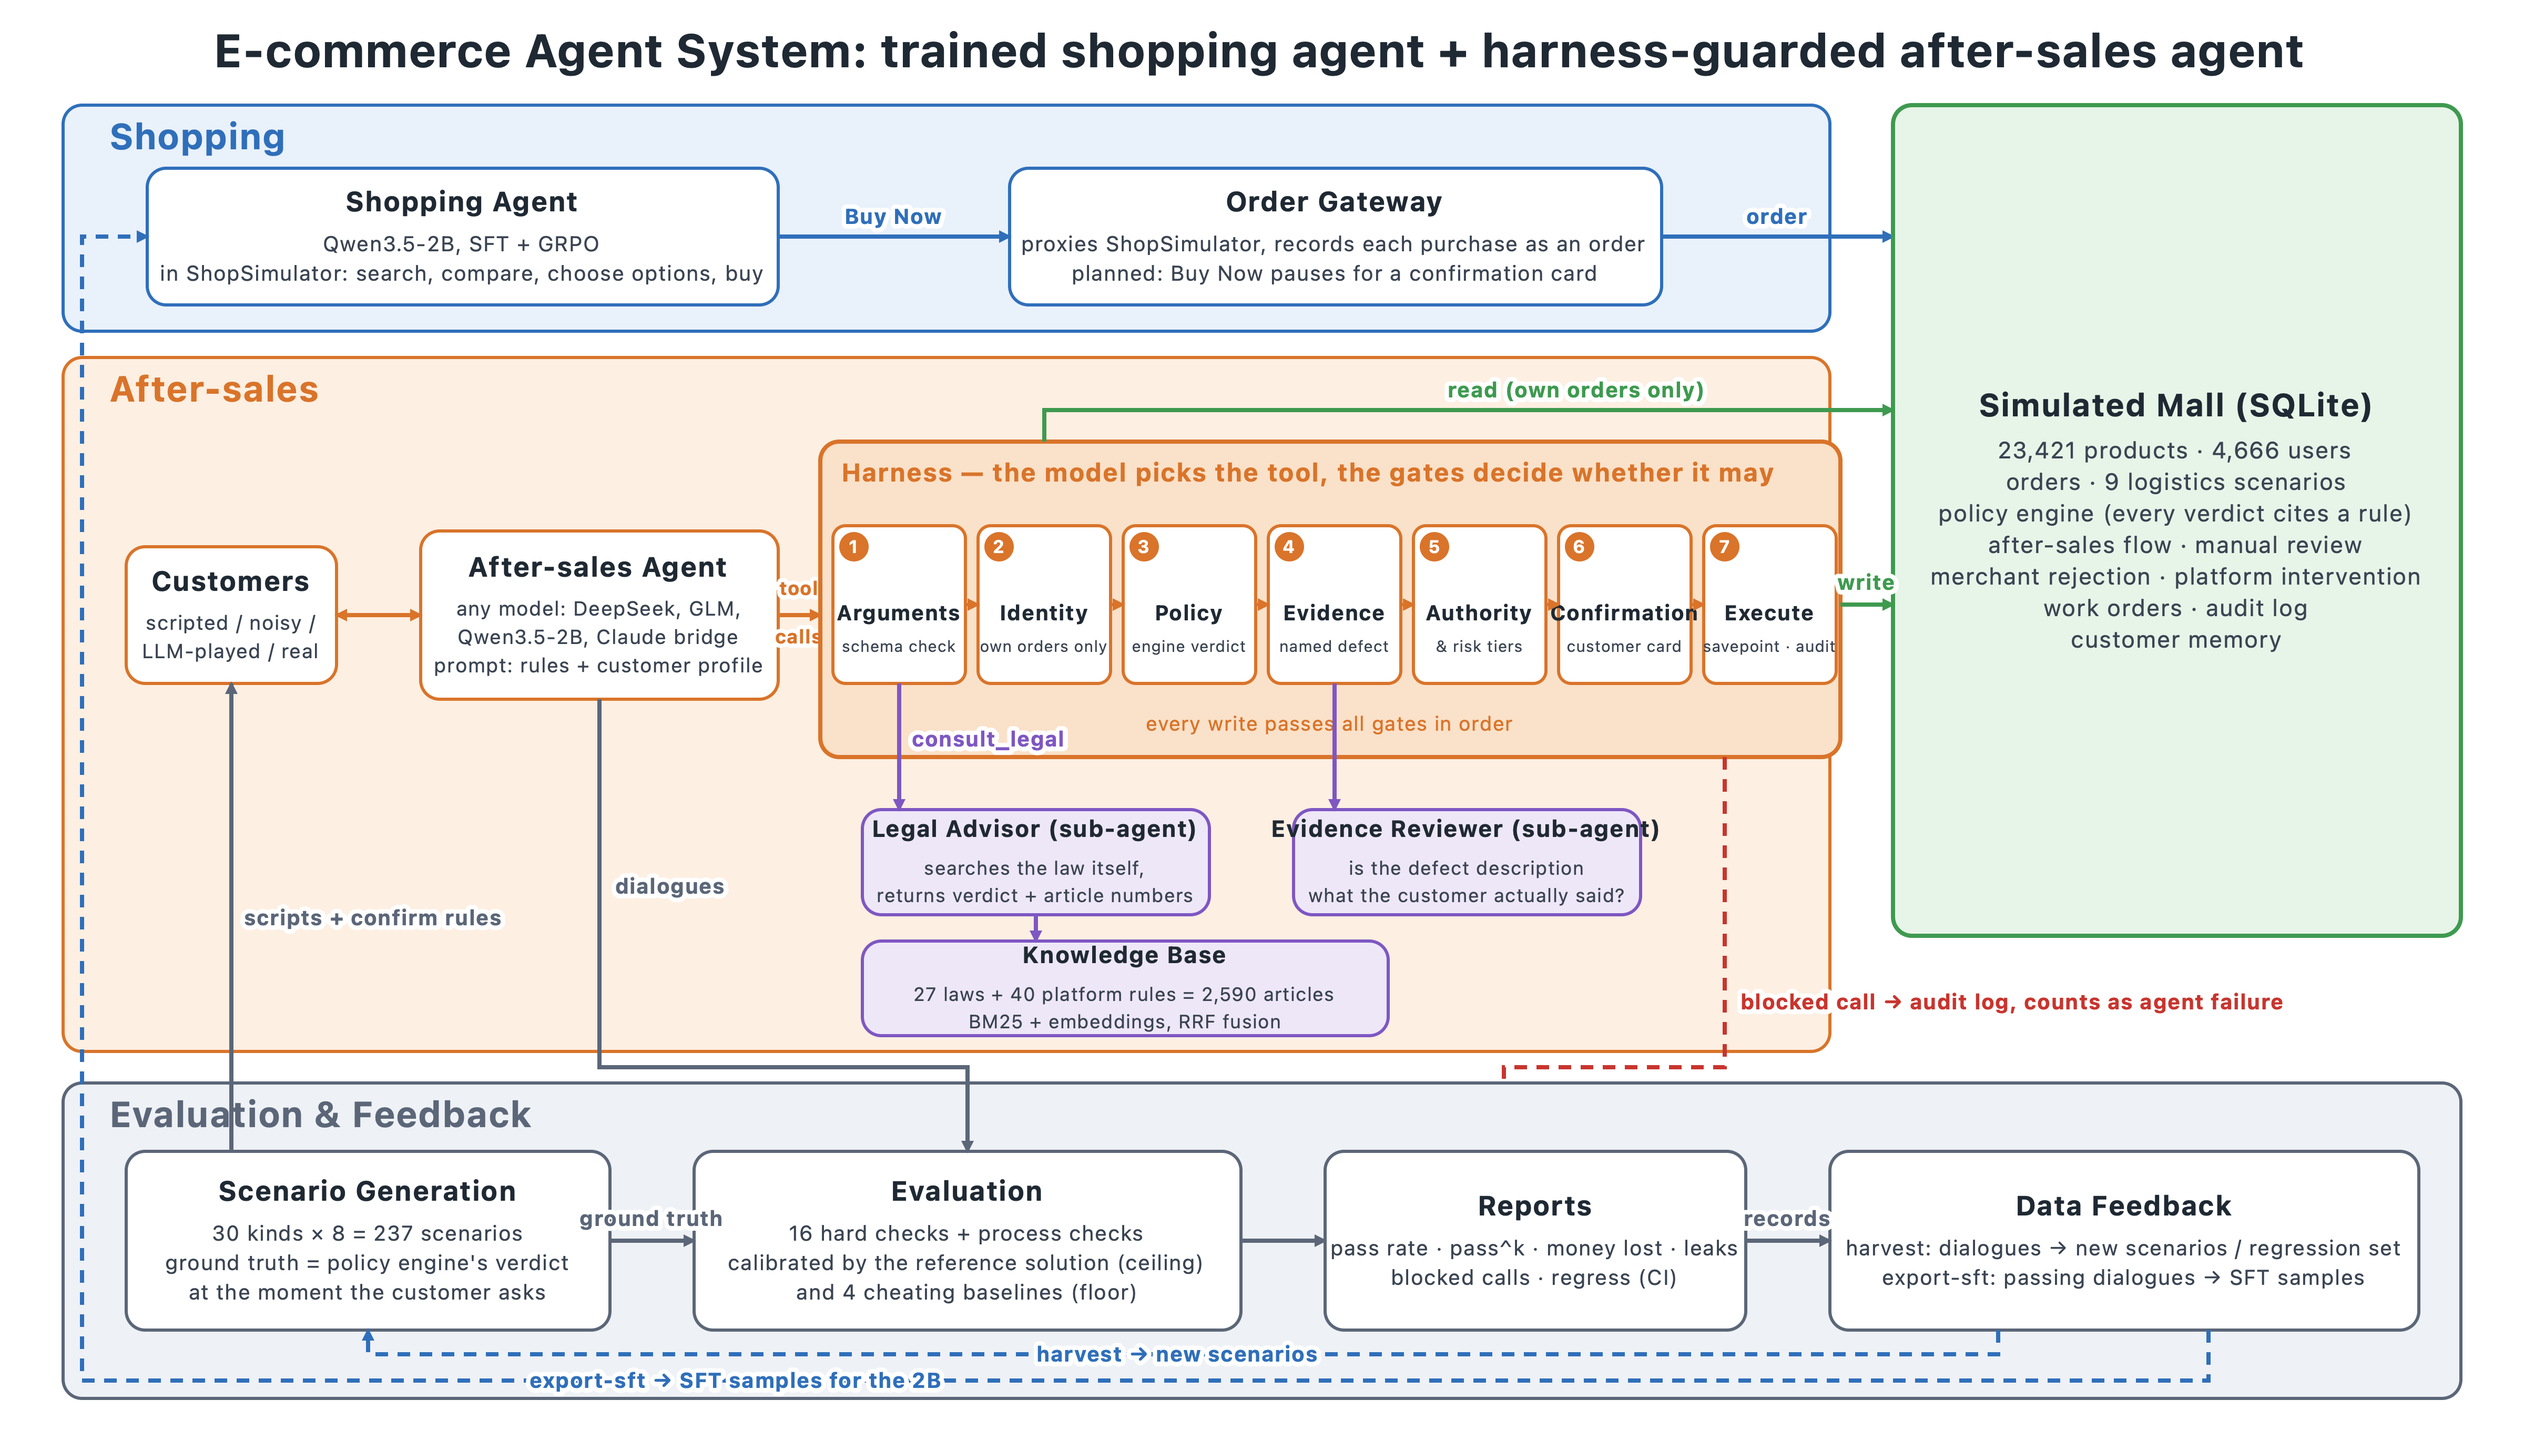
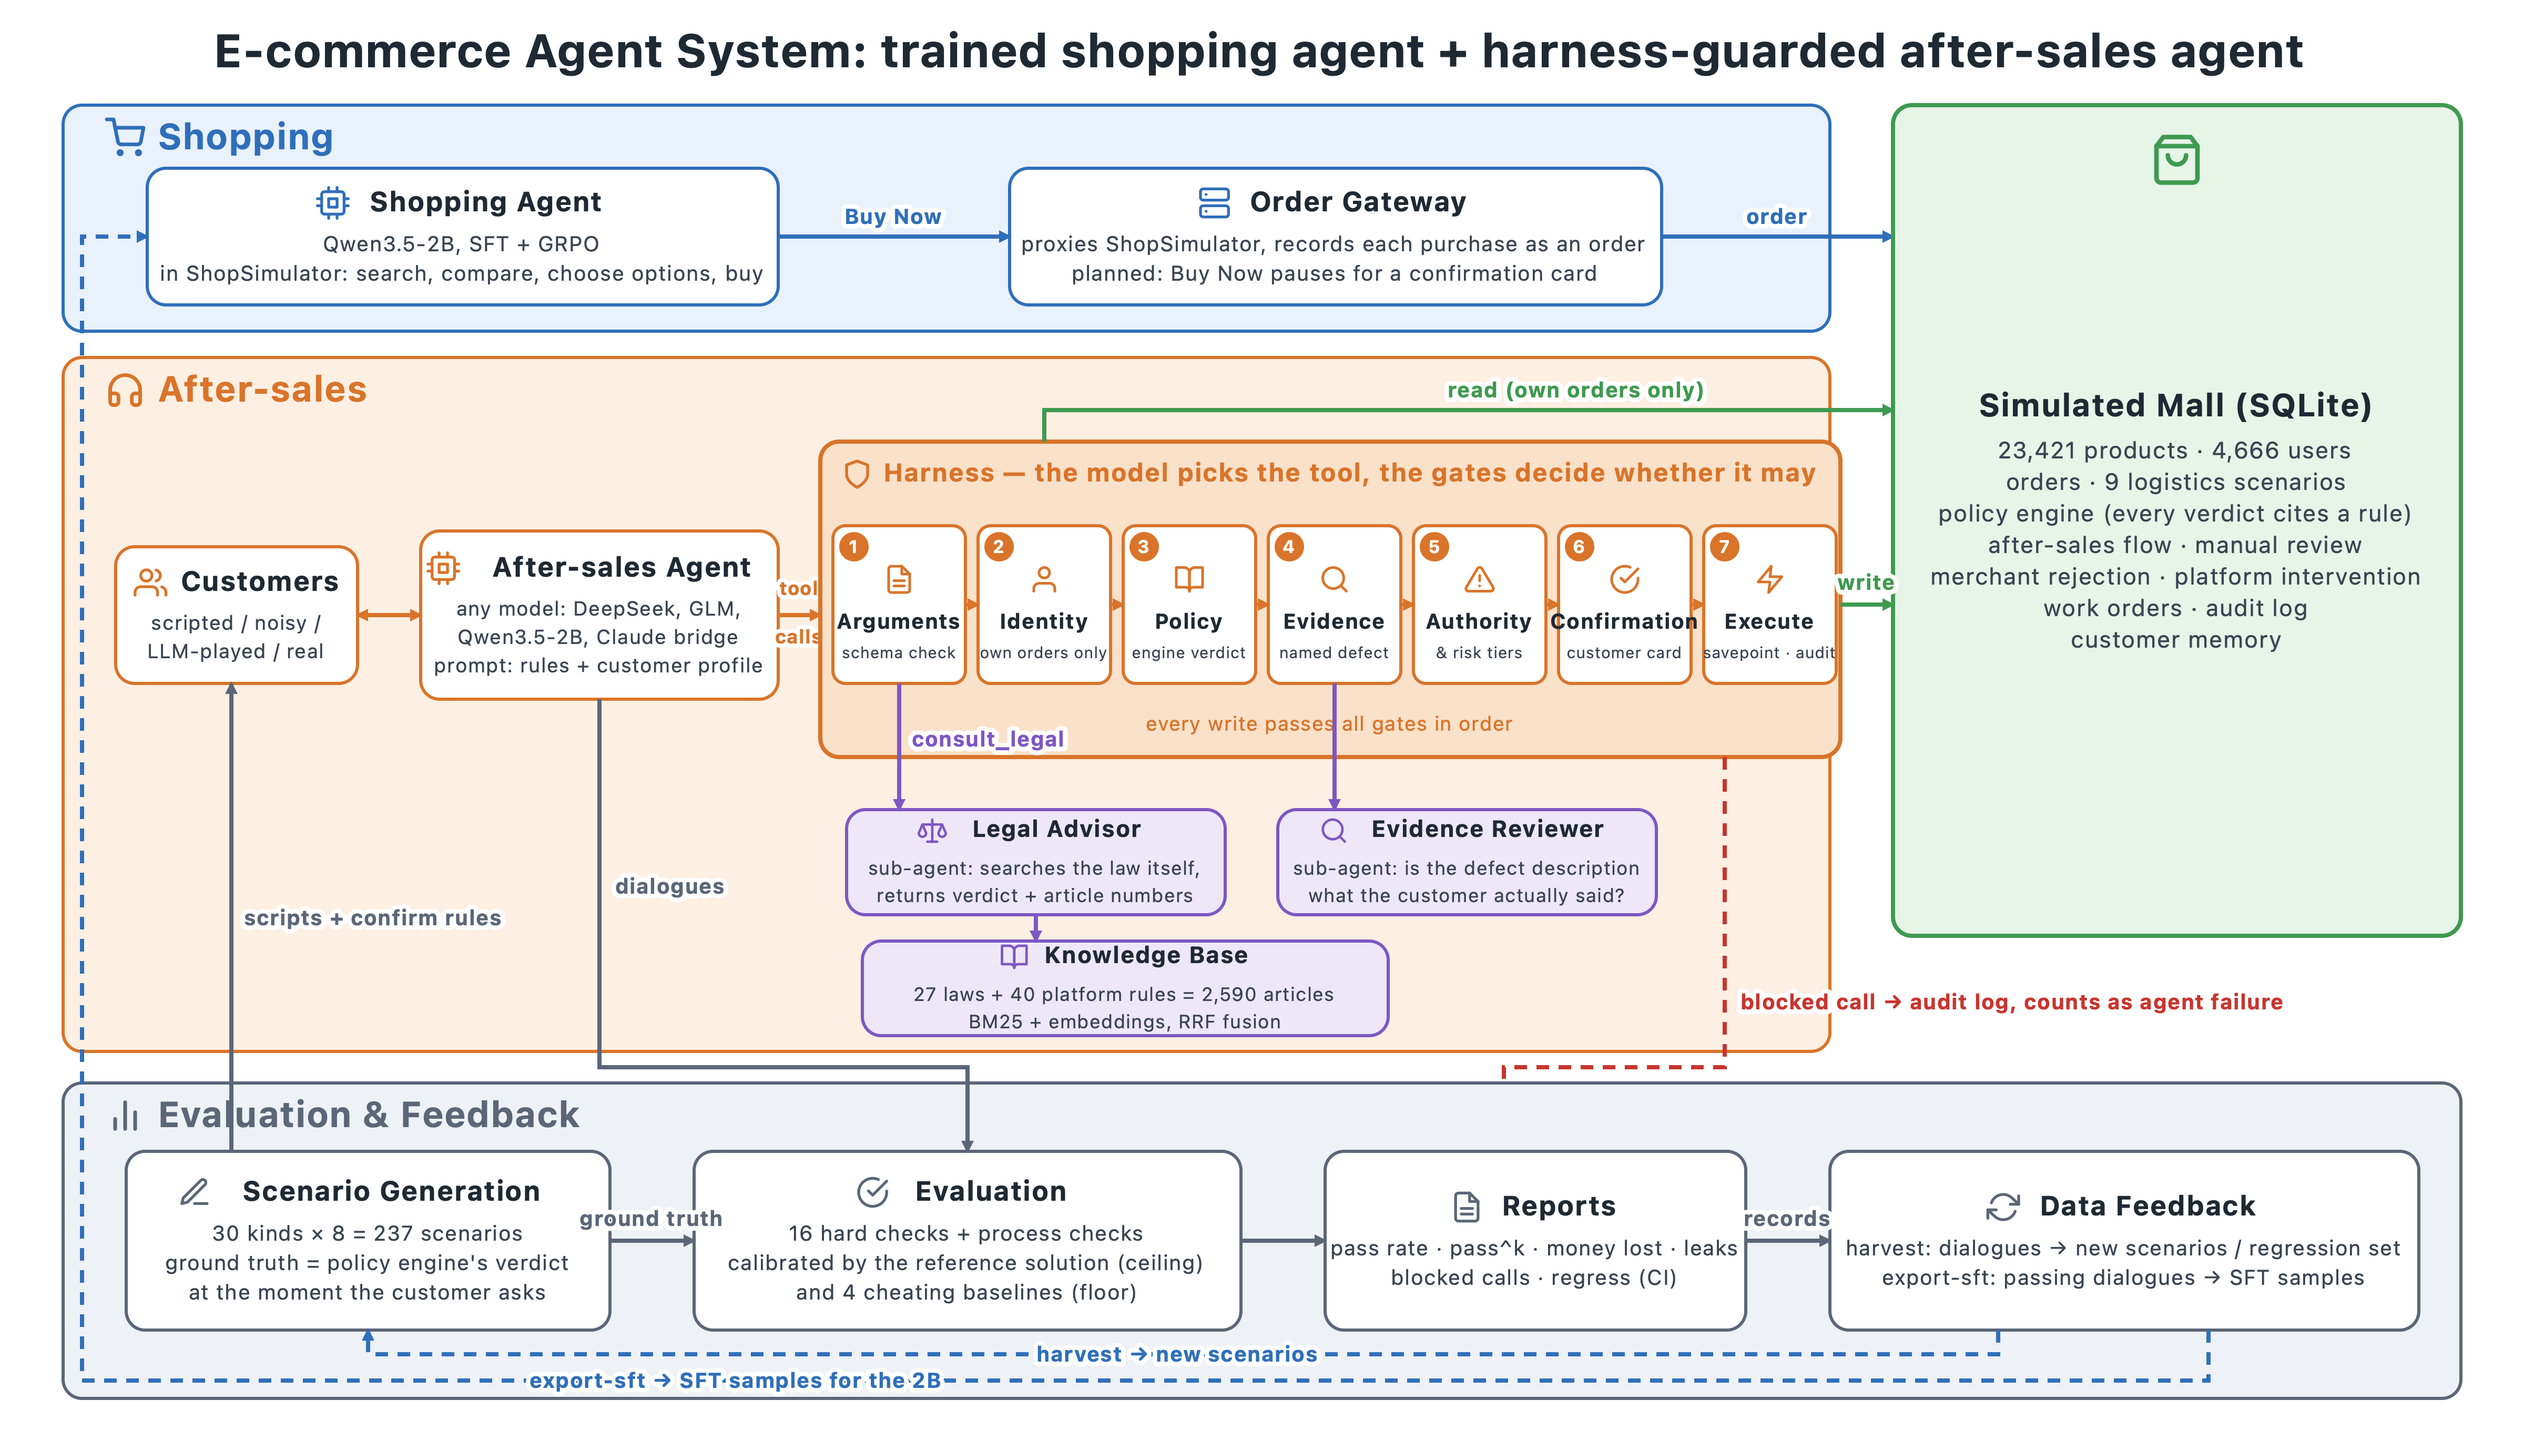
架构图加图标：分带、各个框和七道关卡都配了 Feather 风格的描边图标

diff --git a/docs/make_architecture.py b/docs/make_architecture.py
@@ -29,8 +29,8 @@ LABELS = {
                   ["Authority", "& risk tiers"], ["Confirmation", "customer card"], ["Execute", "savepoint · audit"]],
         "read": "read (own orders only)",
         "write": "write",
-        "legal": ["Legal Advisor (sub-agent)", "searches the law itself,", "returns verdict + article numbers"],
-        "reviewer": ["Evidence Reviewer (sub-agent)", "is the defect description", "what the customer actually said?"],
+        "legal": ["Legal Advisor", "sub-agent: searches the law itself,", "returns verdict + article numbers"],
+        "reviewer": ["Evidence Reviewer", "sub-agent: is the defect description", "what the customer actually said?"],
         "kb": ["Knowledge Base", "27 laws + 40 platform rules = 2,590 articles", "BM25 + embeddings, RRF fusion"],
         "consult": "consult_legal",
         "blocked": "blocked call → audit log, counts as agent failure",
@@ -92,6 +92,36 @@ C = {
     "grey": "#5B6678", "grey_fill": "#EEF1F5", "ink": "#1F2933", "red": "#C8352E", "white": "#FFFFFF",
 }
 
+# 图标：Feather Icons（MIT）的 24×24 描边路径，少数自己拼的；画的时候按 size/24 缩放
+ICONS = {
+    "cart": '<circle cx="9" cy="21" r="1"/><circle cx="20" cy="21" r="1"/><path d="M1 1h4l2.68 13.39a2 2 0 0 0 2 1.61h9.72a2 2 0 0 0 2-1.61L23 6H6"/>',
+    "headphones": '<path d="M3 18v-6a9 9 0 0 1 18 0v6"/><path d="M21 19a2 2 0 0 1-2 2h-1a2 2 0 0 1-2-2v-3a2 2 0 0 1 2-2h3zM3 19a2 2 0 0 0 2 2h1a2 2 0 0 0 2-2v-3a2 2 0 0 0-2-2H3z"/>',
+    "bar-chart": '<line x1="18" y1="20" x2="18" y2="10"/><line x1="12" y1="20" x2="12" y2="4"/><line x1="6" y1="20" x2="6" y2="14"/>',
+    "cpu": '<rect x="4" y="4" width="16" height="16" rx="2"/><rect x="9" y="9" width="6" height="6"/><line x1="9" y1="1" x2="9" y2="4"/><line x1="15" y1="1" x2="15" y2="4"/>'
+           '<line x1="9" y1="20" x2="9" y2="23"/><line x1="15" y1="20" x2="15" y2="23"/><line x1="20" y1="9" x2="23" y2="9"/><line x1="20" y1="14" x2="23" y2="14"/>'
+           '<line x1="1" y1="9" x2="4" y2="9"/><line x1="1" y1="14" x2="4" y2="14"/>',
+    "server": '<rect x="2" y="2" width="20" height="8" rx="2"/><rect x="2" y="14" width="20" height="8" rx="2"/><line x1="6" y1="6" x2="6.01" y2="6"/><line x1="6" y1="18" x2="6.01" y2="18"/>',
+    "bag": '<path d="M6 2L3 6v14a2 2 0 0 0 2 2h14a2 2 0 0 0 2-2V6l-3-4z"/><line x1="3" y1="6" x2="21" y2="6"/><path d="M16 10a4 4 0 0 1-8 0"/>',
+    "users": '<path d="M17 21v-2a4 4 0 0 0-4-4H5a4 4 0 0 0-4 4v2"/><circle cx="9" cy="7" r="4"/><path d="M23 21v-2a4 4 0 0 0-3-3.87"/><path d="M16 3.13a4 4 0 0 1 0 7.75"/>',
+    "user": '<path d="M20 21v-2a4 4 0 0 0-4-4H8a4 4 0 0 0-4 4v2"/><circle cx="12" cy="7" r="4"/>',
+    "scale": '<line x1="12" y1="3" x2="12" y2="21"/><line x1="4" y1="7" x2="20" y2="7"/><path d="M4 7l-3 7a3 3 0 0 0 6 0z"/><path d="M20 7l-3 7a3 3 0 0 0 6 0z"/><line x1="8" y1="21" x2="16" y2="21"/>',
+    "search": '<circle cx="11" cy="11" r="8"/><line x1="21" y1="21" x2="16.65" y2="16.65"/>',
+    "book": '<path d="M2 3h6a4 4 0 0 1 4 4v14a3 3 0 0 0-3-3H2z"/><path d="M22 3h-6a4 4 0 0 0-4 4v14a3 3 0 0 1 3-3h7z"/>',
+    "edit": '<path d="M12 20h9"/><path d="M16.5 3.5a2.121 2.121 0 0 1 3 3L7 19l-4 1 1-4L16.5 3.5z"/>',
+    "check": '<path d="M22 11.08V12a10 10 0 1 1-5.93-9.14"/><polyline points="22 4 12 14.01 9 11.01"/>',
+    "file": '<path d="M14 2H6a2 2 0 0 0-2 2v16a2 2 0 0 0 2 2h12a2 2 0 0 0 2-2V8z"/><polyline points="14 2 14 8 20 8"/><line x1="16" y1="13" x2="8" y2="13"/><line x1="16" y1="17" x2="8" y2="17"/>',
+    "refresh": '<polyline points="23 4 23 10 17 10"/><polyline points="1 20 1 14 7 14"/><path d="M3.51 9a9 9 0 0 1 14.85-3.36L23 10M1 14l4.64 4.36A9 9 0 0 0 20.49 15"/>',
+    "alert": '<path d="M10.29 3.86L1.82 18a2 2 0 0 0 1.71 3h16.94a2 2 0 0 0 1.71-3L13.71 3.86a2 2 0 0 0-3.42 0z"/><line x1="12" y1="9" x2="12" y2="13"/><line x1="12" y1="17" x2="12.01" y2="17"/>',
+    "zap": '<polygon points="13 2 3 14 12 14 11 22 21 10 12 10 13 2"/>',
+    "shield": '<path d="M12 22s8-4 8-10V5l-8-3-8 3v7c0 6 8 10 8 10z"/>',
+}
+GATE_ICONS = ["file", "user", "book", "search", "alert", "check", "zap"]
+
+
+def _tw(text, size):
+    """估计文字宽度：中文按一个字号，拉丁字母按 0.58 个字号。只用来摆图标，不用很准。"""
+    return sum(size if ord(ch) > 0x2E80 else size * 0.64 for ch in text)
+
 
 class SVG:
     def __init__(self):
@@ -106,14 +136,32 @@ class SVG:
         stroke = f' stroke="{C["white"]}" stroke-width="{size * 0.45}" paint-order="stroke" stroke-linejoin="round"' if halo else ""
         self.parts.append(f'<text x="{x}" y="{y}" font-size="{size}" font-weight="{weight}" fill="{fill}" text-anchor="{anchor}"{stroke}>{s}</text>')
 
-    def box(self, x, y, w, h, lines, fill, stroke, title_size=26, body_size=20, sw=3):
+    def icon(self, name, x, y, size, color, sw=2):
+        self.parts.append(f'<g transform="translate({x} {y}) scale({size / 24:.4f})" fill="none" stroke="{color}" stroke-width="{sw}"'
+                          f' stroke-linecap="round" stroke-linejoin="round">{ICONS[name]}</g>')
+
+    def box(self, x, y, w, h, lines, fill, stroke, title_size=26, body_size=20, sw=3, icon=None, icon_top=False):
+        """圆角框，标题加几行说明，整体垂直居中。icon 放在标题左边（icon_top=True 时放在框顶居中，给高框用）。"""
         self.rect(x, y, w, h, fill, stroke, sw=sw)
         gap = body_size + 8
         total = title_size + 10 + gap * (len(lines) - 1)
         ty = y + (h - total) / 2 + title_size - 4
-        self.text(x + w / 2, ty, lines[0], title_size, "bold")
+        tx = x + w / 2
+        if icon and icon_top:
+            self.icon(icon, tx - 26, y + 26, 52, stroke)
+        elif icon:
+            size = title_size + 6
+            group = size + 14 + _tw(lines[0], title_size)
+            left = tx - group / 2
+            self.icon(icon, left, ty - title_size + 2, size, stroke)
+            tx = left + size + 14 + _tw(lines[0], title_size) / 2
+        self.text(tx, ty, lines[0], title_size, "bold")
         for i, line in enumerate(lines[1:], 1):
             self.text(x + w / 2, ty + 10 + gap * i, line, body_size, fill="#3A4452")
+
+    def band_title(self, x, y, text, color, icon):
+        self.icon(icon, x, y - 30, 38, color, sw=2.2)
+        self.text(x + 50, y, text, 34, "bold", color, "start")
 
     def arrow(self, points, color, label=None, dash=None, both=False, label_dy=-12, label_anchor="middle", label_at=None, width=4):
         d = " ".join(f"{'M' if i == 0 else 'L'} {x} {y}" for i, (x, y) in enumerate(points))
@@ -146,28 +194,29 @@ def draw(lang):
 
     # ---- 购物带
     s.rect(60, 100, 1680, 215, C["blue_fill"], C["blue"])
-    s.text(104, 142, t["shopping"], 34, "bold", C["blue"], "start")
-    s.box(140, 160, 600, 130, t["shop_agent"], C["white"], C["blue"], 26, 20)
-    s.box(960, 160, 620, 130, t["gateway"], C["white"], C["blue"], 26, 20)
+    s.band_title(100, 142, t["shopping"], C["blue"], "cart")
+    s.box(140, 160, 600, 130, t["shop_agent"], C["white"], C["blue"], 26, 20, icon="cpu")
+    s.box(960, 160, 620, 130, t["gateway"], C["white"], C["blue"], 26, 20, icon="server")
     s.arrow([(740, 225), (960, 225)], "blue", t["buy"])
     s.arrow([(1580, 225), (1800, 225)], "blue", t["to_mall"])
 
     # ---- 模拟商城
-    s.box(1800, 100, 540, 790, t["mall"], C["green_fill"], C["green"], 30, 22, sw=4)
+    s.box(1800, 100, 540, 790, t["mall"], C["green_fill"], C["green"], 30, 22, sw=4, icon="bag", icon_top=True)
 
     # ---- 售后带
     s.rect(60, 340, 1680, 660, C["orange_fill"], C["orange"])
-    s.text(104, 382, t["aftersales"], 34, "bold", C["orange"], "start")
-    s.box(120, 520, 200, 130, t["customers"], C["white"], C["orange"], 26, 19)
-    s.box(400, 505, 340, 160, t["cs_agent"], C["white"], C["orange"], 26, 19)
-    s.arrow([(320, 585), (400, 585)], "orange", both=True)
+    s.band_title(100, 382, t["aftersales"], C["orange"], "headphones")
+    s.box(110, 520, 230, 130, t["customers"], C["white"], C["orange"], 26, 19, icon="users")
+    s.box(400, 505, 340, 160, t["cs_agent"], C["white"], C["orange"], 26, 19, icon="cpu")
+    s.arrow([(340, 585), (400, 585)], "orange", both=True)
     s.arrow([(740, 585), (780, 585)], "orange")
     s.text(760, 566, t["tool_calls"][0], 18, "bold", C["orange"], halo=True)
     s.text(760, 612, t["tool_calls"][1], 18, "bold", C["orange"], halo=True)
 
     # harness 和七道关
     s.rect(780, 420, 970, 300, C["harness_fill"], C["orange"], sw=4)
-    s.text(800, 458, t["harness"], 24, "bold", C["orange"], "start")
+    s.icon("shield", 800, 436, 30, C["orange"], sw=2.2)
+    s.text(840, 458, t["harness"], 24, "bold", C["orange"], "start")
     gx, gw, gap = 792, 126, 12
     centers = []
     for i, (name, sub) in enumerate(t["gates"]):
@@ -177,8 +226,9 @@ def draw(lang):
         centers.append(cx)
         s.parts.append(f'<circle cx="{x + 20}" cy="{520}" r="14" fill="{C["orange"]}"/>')
         s.text(x + 20, 526, str(i + 1), 17, "bold", C["white"])
-        s.text(cx, 590, name, 20, "bold")
-        s.text(cx, 620, sub, 15, fill="#3A4452")
+        s.icon(GATE_ICONS[i], cx - 15, 536, 30, C["orange"])
+        s.text(cx, 598, name, 20, "bold")
+        s.text(cx, 626, sub, 15, fill="#3A4452")
         if i:
             s.arrow([(x - gap, 575), (x, 575)], "orange", width=3)
     s.text(1265, 695, t["harness_note"], 19, "normal", C["orange"])
@@ -188,9 +238,9 @@ def draw(lang):
     s.arrow([(1750, 575), (1800, 575)], "green", t["write"], label_dy=-14)
 
     # 子 agent 和知识库
-    s.box(820, 770, 330, 100, t["legal"], C["purple_fill"], C["purple"], 22, 18)
-    s.box(1230, 770, 330, 100, t["reviewer"], C["purple_fill"], C["purple"], 22, 18)
-    s.box(820, 895, 500, 90, t["kb"], C["purple_fill"], C["purple"], 22, 18)
+    s.box(805, 770, 360, 100, t["legal"], C["purple_fill"], C["purple"], 22, 18, icon="scale")
+    s.box(1215, 770, 360, 100, t["reviewer"], C["purple_fill"], C["purple"], 22, 18, icon="search")
+    s.box(820, 895, 500, 90, t["kb"], C["purple_fill"], C["purple"], 22, 18, icon="book")
     s.arrow([(centers[0], 650), (centers[0], 770)], "purple", t["consult"], label_at=(centers[0] + 12, 710), label_anchor="start", label_dy=0)
     s.arrow([(centers[3], 650), (centers[3], 770)], "purple")
     s.arrow([(985, 870), (985, 895)], "purple")
@@ -200,11 +250,11 @@ def draw(lang):
 
     # ---- 评测带
     s.rect(60, 1030, 2280, 300, C["grey_fill"], C["grey"])
-    s.text(104, 1072, t["eval"], 34, "bold", C["grey"], "start")
-    s.box(120, 1095, 460, 170, t["scenarios"], C["white"], C["grey"], 26, 20)
-    s.box(660, 1095, 520, 170, t["evaluation"], C["white"], C["grey"], 26, 20)
-    s.box(1260, 1095, 400, 170, t["reports"], C["white"], C["grey"], 26, 20)
-    s.box(1740, 1095, 560, 170, t["feedback"], C["white"], C["grey"], 26, 20)
+    s.band_title(100, 1072, t["eval"], C["grey"], "bar-chart")
+    s.box(120, 1095, 460, 170, t["scenarios"], C["white"], C["grey"], 26, 20, icon="edit")
+    s.box(660, 1095, 520, 170, t["evaluation"], C["white"], C["grey"], 26, 20, icon="check")
+    s.box(1260, 1095, 400, 170, t["reports"], C["white"], C["grey"], 26, 20, icon="file")
+    s.box(1740, 1095, 560, 170, t["feedback"], C["white"], C["grey"], 26, 20, icon="refresh")
     s.arrow([(580, 1180), (660, 1180)], "grey", t["ground_truth"], label_dy=-14)
     s.arrow([(1180, 1180), (1260, 1180)], "grey")
     s.arrow([(1660, 1180), (1740, 1180)], "grey", t["records"], label_dy=-14)
